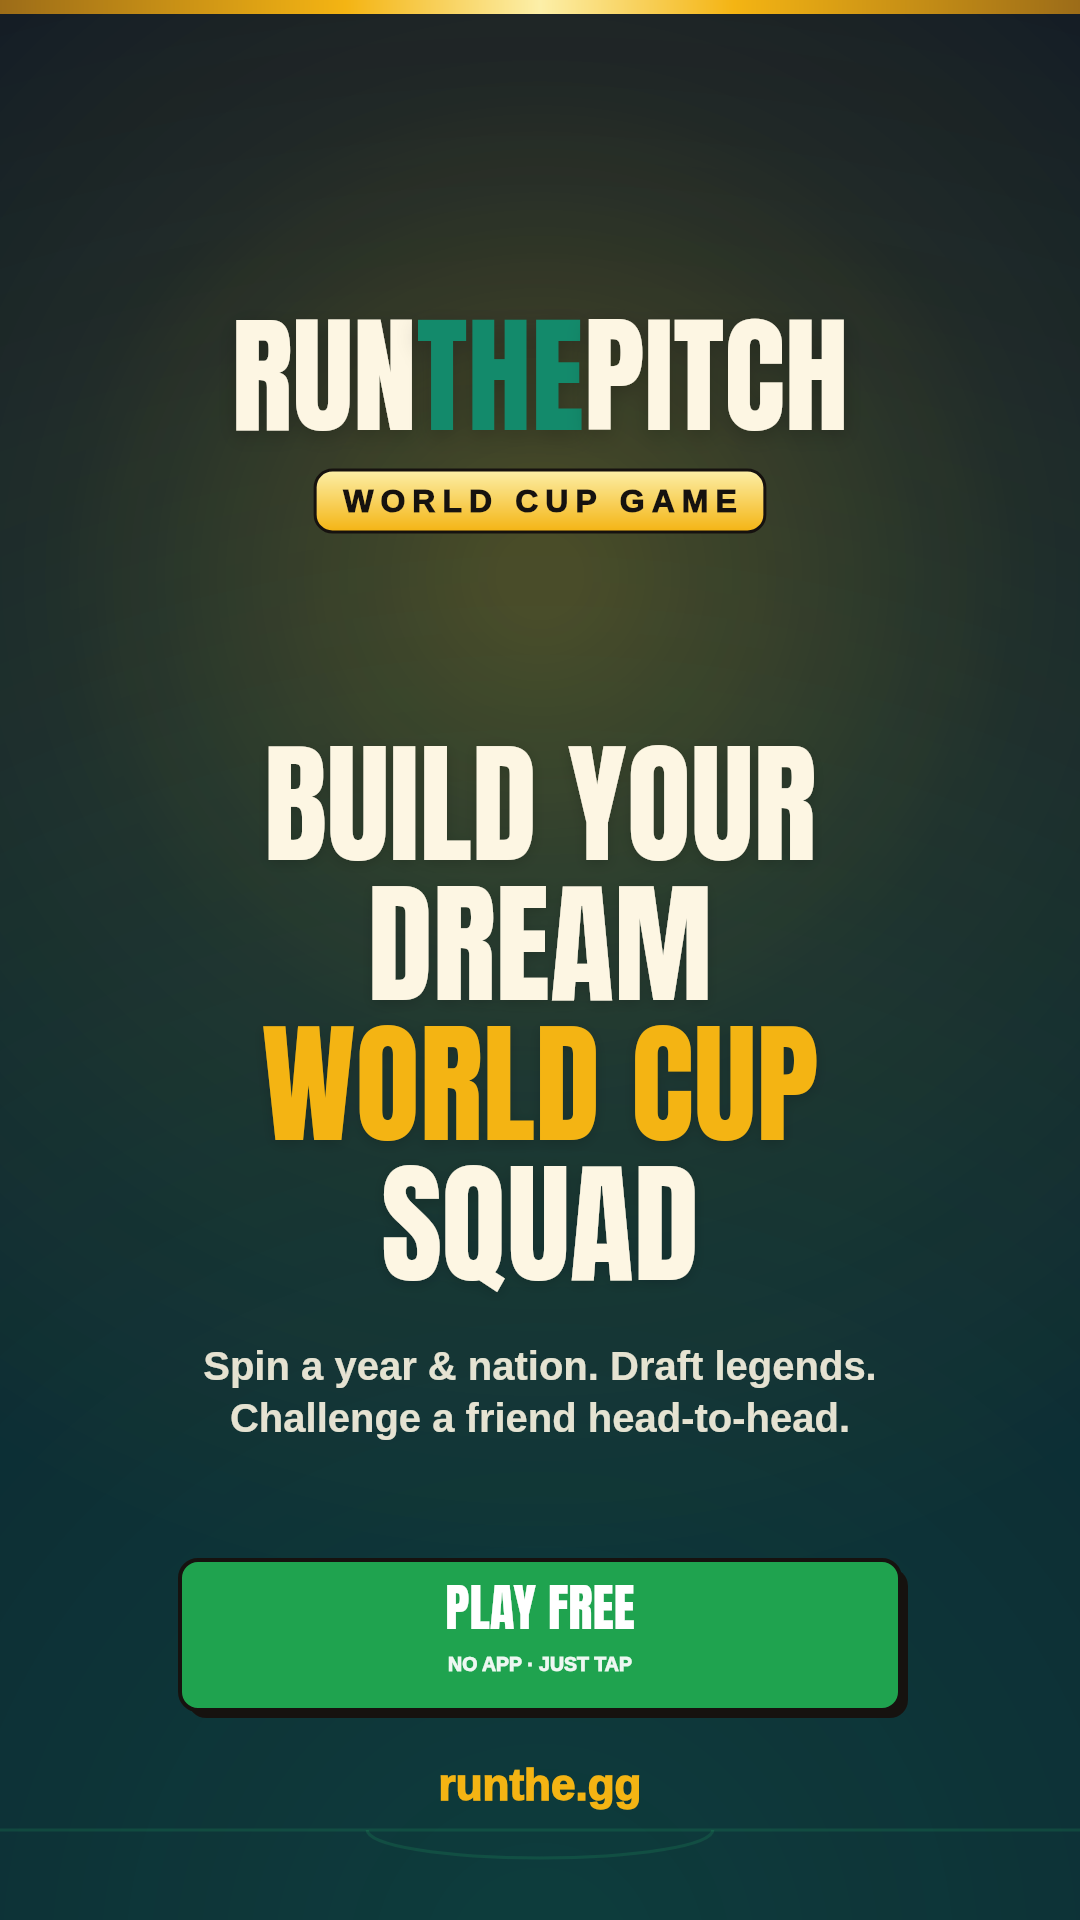
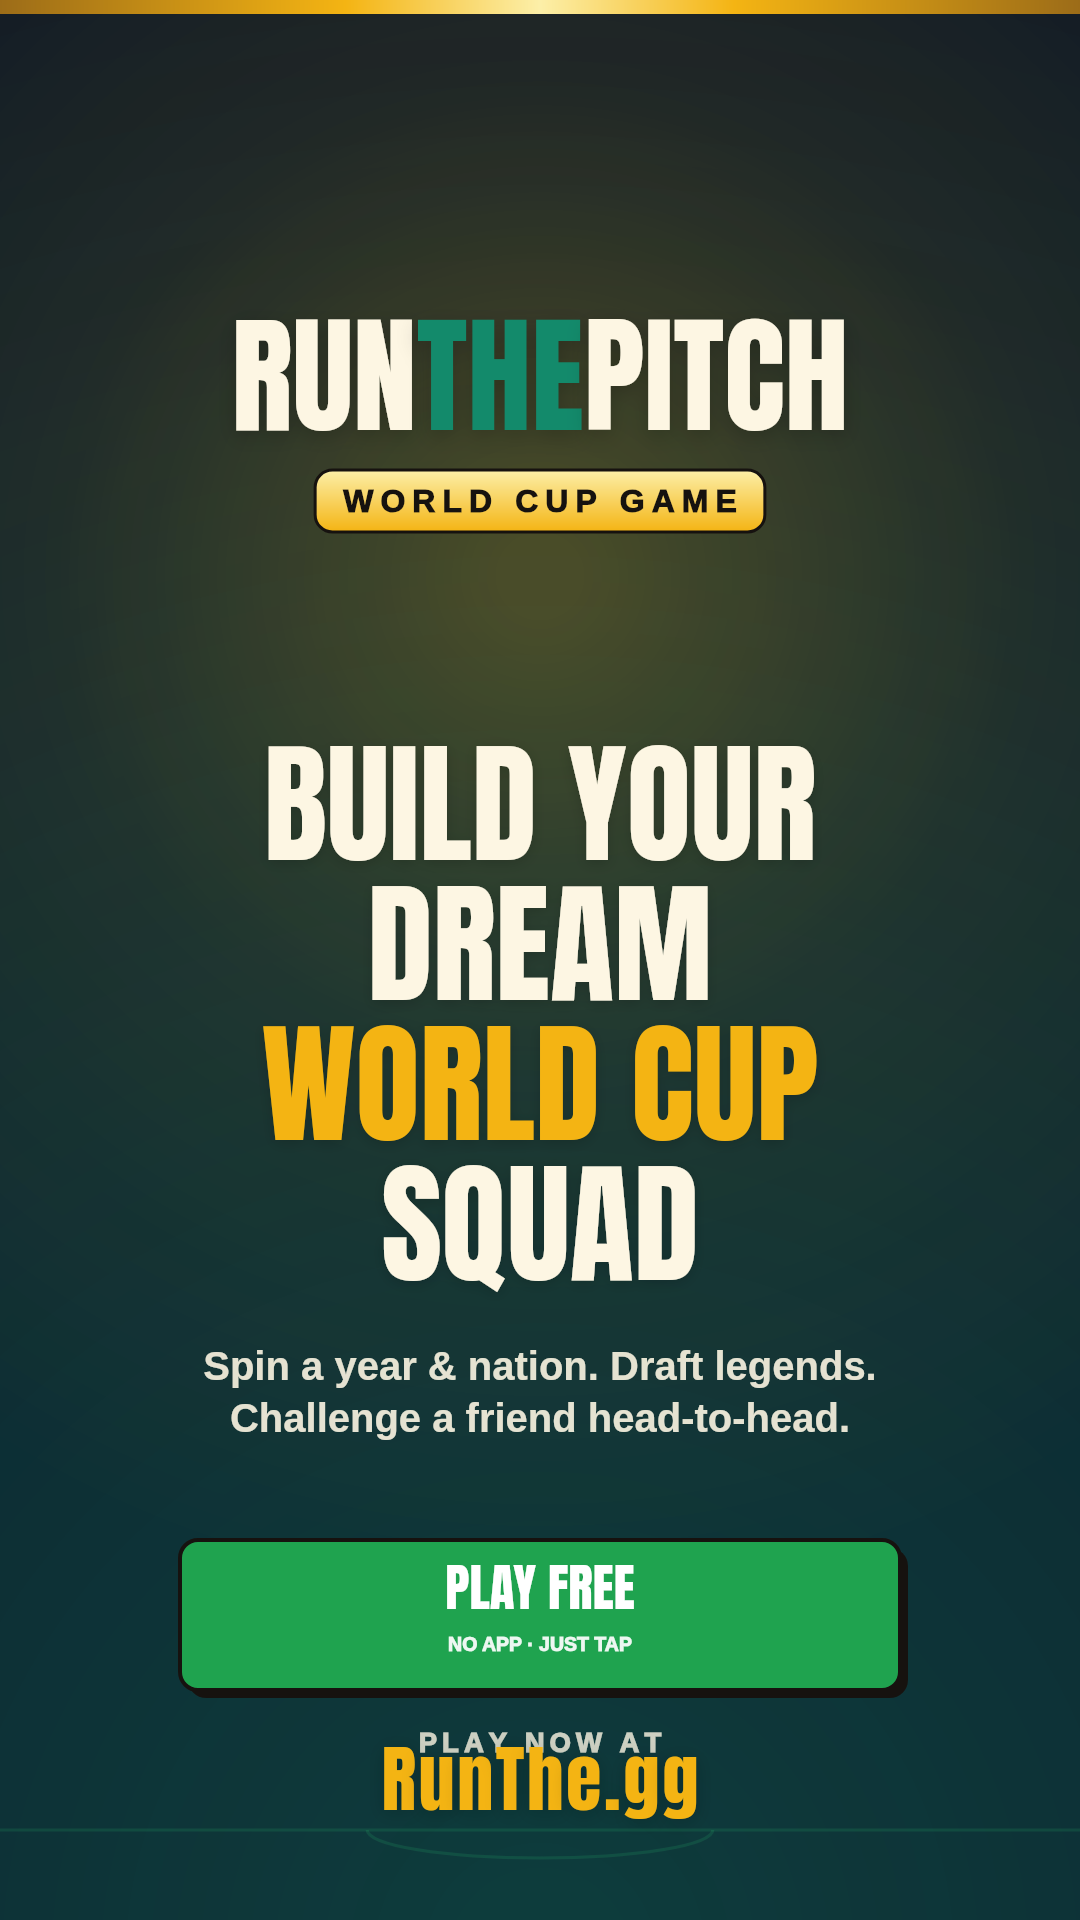
Make RunThe.gg footer larger and more prominent with PLAY NOW AT kicker

Changed region(s): [[0.1528, 0.7812, 0.8556, 0.9688]]

diff --git a/marketing/make-ig-assets.js b/marketing/make-ig-assets.js
@@ -60,6 +60,27 @@ function pill(x,CX,py0,fontPx,padX,height){
   x.fillStyle=ink; let wx=x0+padX; for(const ch of label){ x.fillText(ch,wx,py0+height*0.68); wx+=x.measureText(ch).width+sp; }
 }
 
+// Footer URL block: small "PLAY NOW AT" label above a large gold "RunThe.gg".
+// `cy` is the baseline of the big URL line; `s` scales the whole block.
+function footer(x,CX,cy,s){
+  x.textAlign='center';
+  // small kicker label
+  x.fillStyle='rgba(253,246,227,.8)'; x.font=`900 ${22*s}px ArchivoBlack`;
+  const kick='PLAY NOW AT', ksp=4*s;
+  let kw=0; for(const ch of kick) kw+=x.measureText(ch).width+ksp; kw-=ksp;
+  let kx=CX-kw/2; x.textAlign='left';
+  for(const ch of kick){ x.fillText(ch,kx,cy-46*s); kx+=x.measureText(ch).width+ksp; }
+  // large URL with letter-spacing + soft shadow so it stands out
+  x.save(); x.shadowColor='rgba(0,0,0,.45)'; x.shadowBlur=10*s; x.shadowOffsetY=3*s;
+  x.fillStyle=gold; x.font=`400 ${58*s}px AntonR`;
+  const url='RunThe.gg', usp=2*s;
+  let uw=0; for(const ch of url) uw+=x.measureText(ch).width+usp; uw-=usp;
+  let ux=CX-uw/2;
+  for(const ch of url){ x.fillText(ch,ux,cy); ux+=x.measureText(ch).width+usp; }
+  x.restore();
+  x.textAlign='center';
+}
+
 // Big CTA button (filled) with label + sublabel, centered.
 function ctaButton(x,CX,by,bw,bh,fill,label,sub){
   const bx=CX-bw/2;
@@ -90,10 +111,10 @@ function ctaButton(x,CX,by,bw,bh,fill,label,sub){
   x.fillText('Draft a squad from 60+ years of World Cup', CX, 748);
   x.fillText('legends — then simulate your run to glory.', CX, 792);
   // two CTAs
-  ctaButton(x,CX-262,890,490,120,'#1Fa34f','FRIENDLIES','CHALLENGE A FRIEND');
-  ctaButton(x,CX+262,890,490,120,'#E5402A','SOLO DRAFT','SIMULATE A WORLD CUP');
+  ctaButton(x,CX-262,840,490,118,'#1Fa34f','FRIENDLIES','CHALLENGE A FRIEND');
+  ctaButton(x,CX+262,840,490,118,'#E5402A','SOLO DRAFT','SIMULATE A WORLD CUP');
   // url
-  x.textAlign='center'; x.font='900 34px ArchivoBlack'; x.fillStyle=gold; x.fillText('runthe.gg', CX, H-44);
+  footer(x,CX,H-46,1.0);
   fs.writeFileSync('marketing/ig-feed.png', c.toBuffer('image/png'));
   console.log('wrote marketing/ig-feed.png');
 })();
@@ -118,8 +139,8 @@ function ctaButton(x,CX,by,bw,bh,fill,label,sub){
   x.fillText('Spin a year & nation. Draft legends.', CX, 1380);
   x.fillText('Challenge a friend head-to-head.', CX, 1432);
   // single CTA
-  ctaButton(x,CX,1560,720,150,'#1Fa34f','PLAY FREE','NO APP · JUST TAP');
-  x.textAlign='center'; x.font='900 44px ArchivoBlack'; x.fillStyle=gold; x.fillText('runthe.gg', CX, 1800);
+  ctaButton(x,CX,1540,720,150,'#1Fa34f','PLAY FREE','NO APP · JUST TAP');
+  footer(x,CX,1810,1.25);
   fs.writeFileSync('marketing/ig-story.png', c.toBuffer('image/png'));
   console.log('wrote marketing/ig-story.png');
 })();
@@ -138,9 +159,9 @@ function ctaButton(x,CX,by,bw,bh,fill,label,sub){
     ['3','Simulate your World Cup run','Face historic squads and chase the trophy.'],
     ['4','Or challenge a friend','Head-to-head Friendly, winner takes bragging rights.'],
   ];
-  let ry=430; const cardX=70, cardW=W-140;
+  let ry=410; const cardX=70, cardW=W-140;
   steps.forEach(([n,t,s])=>{
-    const ch=190;
+    const ch=172;
     x.fillStyle='rgba(8,14,26,.55)'; rrect(x,cardX,ry,cardW,ch,24); x.fill();
     x.lineWidth=2; x.strokeStyle='rgba(244,180,19,.4)'; rrect(x,cardX,ry,cardW,ch,24); x.stroke();
     // number circle
@@ -151,9 +172,9 @@ function ctaButton(x,CX,by,bw,bh,fill,label,sub){
     x.textAlign='left';
     x.fillStyle=cream; x.font='900 42px ArchivoBlack'; x.fillText(t,cardX+180,ry+ch/2-6);
     x.fillStyle='rgba(253,246,227,.78)'; x.font='600 30px ArchivoSemi'; x.fillText(s,cardX+180,ry+ch/2+42);
-    ry+=ch+24;
+    ry+=ch+22;
   });
-  x.textAlign='center'; x.font='900 40px ArchivoBlack'; x.fillStyle=gold; x.fillText('runthe.gg', CX, H-50);
+  footer(x,CX,H-46,1.0);
   fs.writeFileSync('marketing/ig-howto.png', c.toBuffer('image/png'));
   console.log('wrote marketing/ig-howto.png');
 })();
